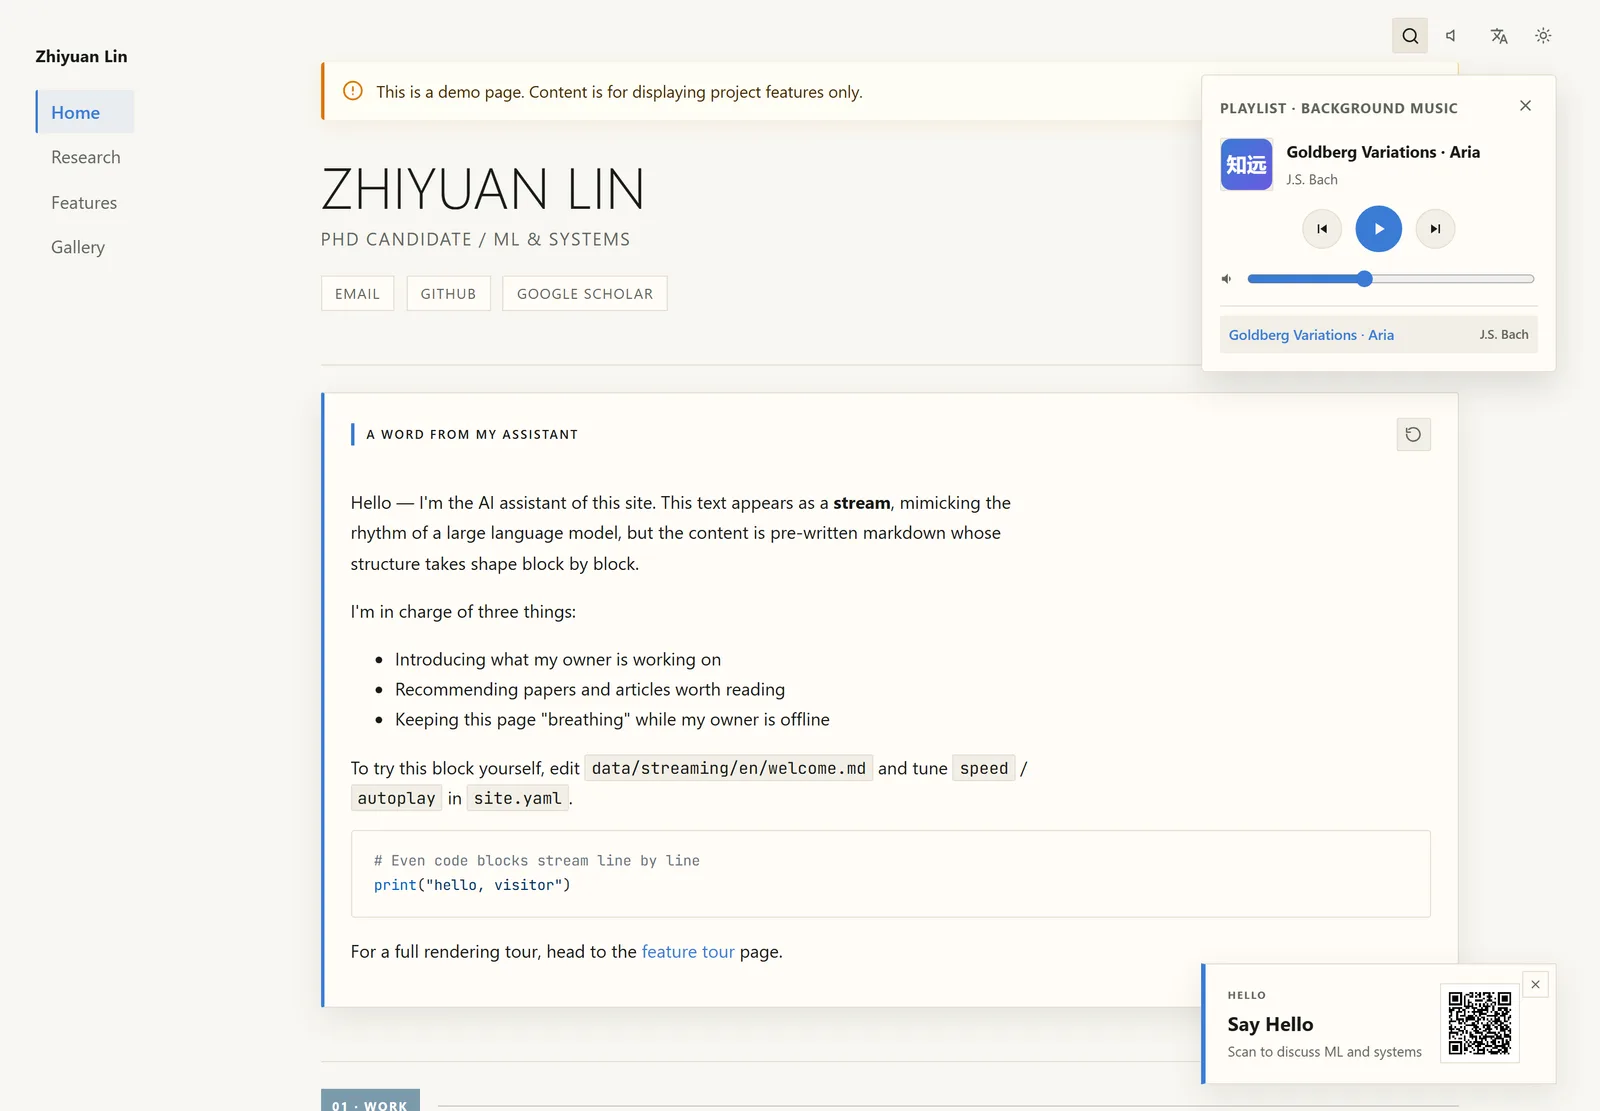
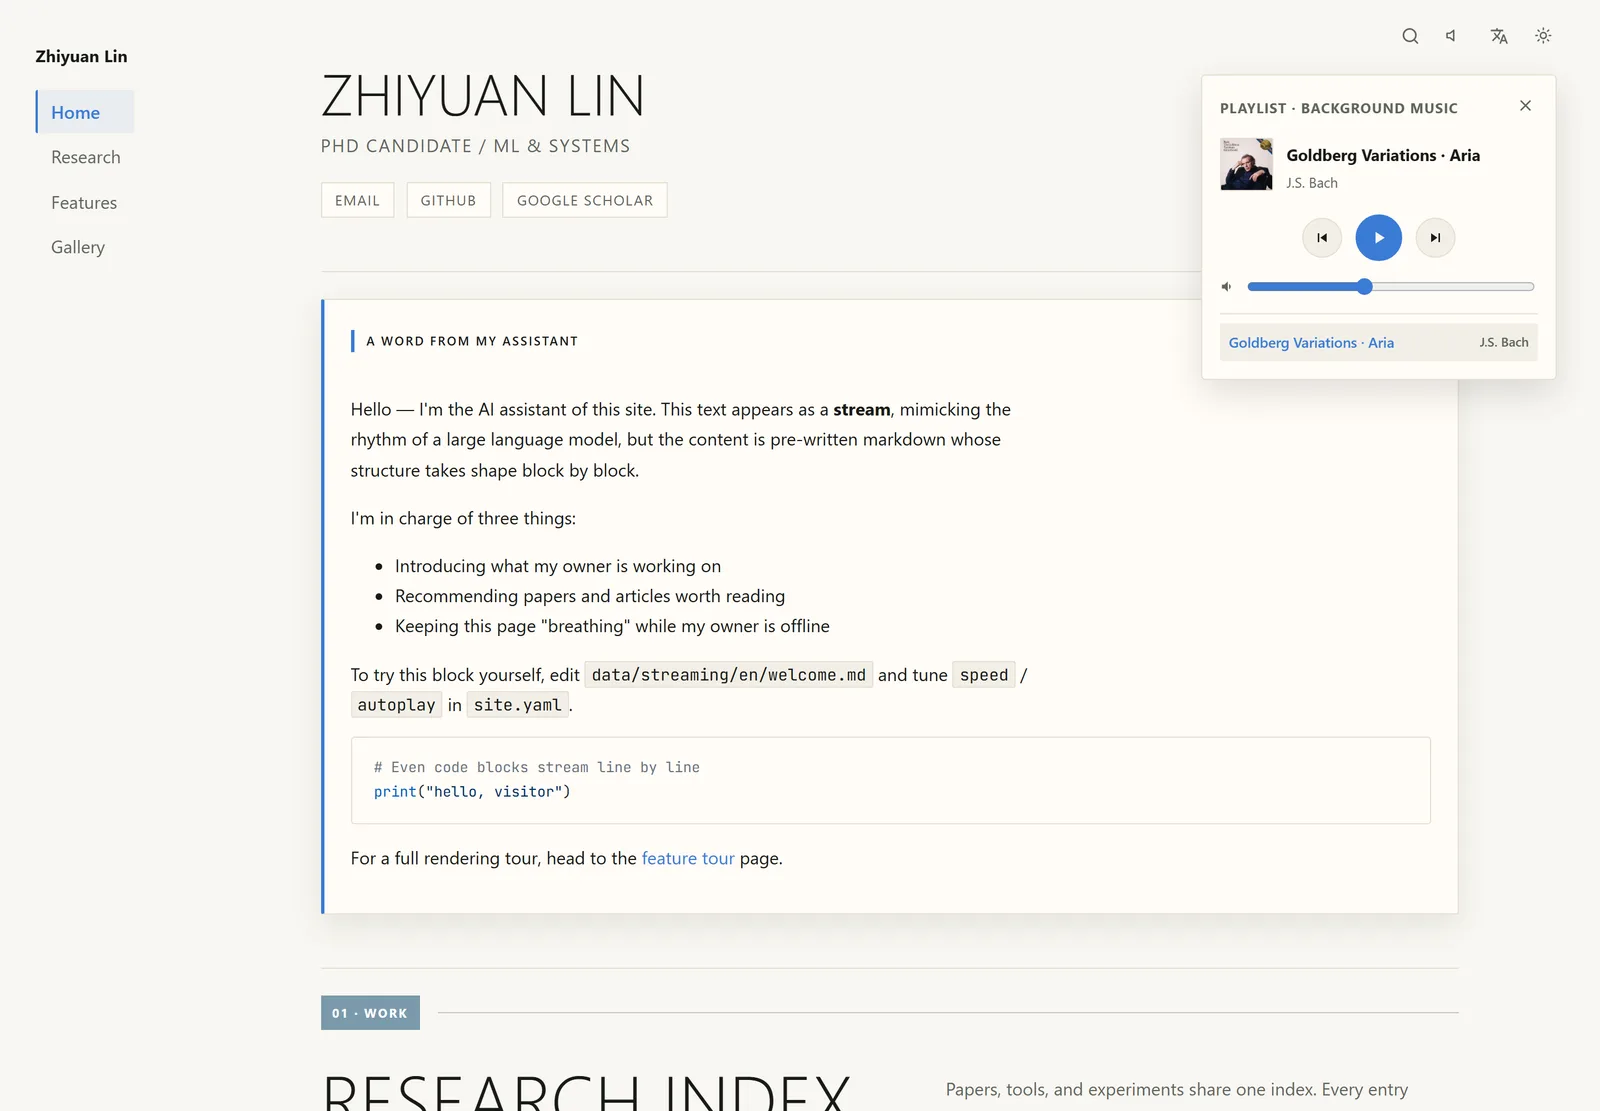
feat(bgm): 播放列表抽屉开关动画 + 按钮交互动画 + 专辑封面占位符改进
1. BGM 抽屉增加开关动画（scale+opacity transition，transform-origin top-right）2. 所有按钮（播放/暂停/上一首/下一首/关闭）增加 hover scale 与 active 缩放反馈 3. 未指定封面时显示音符 SVG 占位符而非站点 logo 4. 示例 BGM 封面改为 goldberg-aria-cover.jpg（已纳入图片优化管线，自动生成 WebP/AVIF 响应式变体）5. 更新 bgm-drawer 截图

diff --git a/src/scripts/bgm.ts b/src/scripts/bgm.ts
@@ -82,6 +82,37 @@ function updateMediaSession(track: Track, audio: HTMLAudioElement, onPrev?: () =
   }
 }
 
+function toggleDrawer(drawer: HTMLElement): void {
+  if (drawer.hidden || drawer.classList.contains('closing')) {
+    openDrawer(drawer);
+  } else {
+    closeDrawer(drawer);
+  }
+}
+
+function openDrawer(drawer: HTMLElement): void {
+  drawer.classList.remove('closing');
+  drawer.hidden = false;
+  // Re-trigger animation by reflow
+  void drawer.offsetWidth;
+  drawer.style.animation = '';
+}
+
+function closeDrawer(drawer: HTMLElement): void {
+  if (drawer.hidden || drawer.classList.contains('closing')) return;
+  drawer.classList.add('closing');
+  const done = () => {
+    drawer.hidden = true;
+    drawer.classList.remove('closing');
+    drawer.removeEventListener('animationend', done);
+  };
+  drawer.addEventListener('animationend', done);
+  // Fallback timeout in case animationend doesn't fire
+  setTimeout(() => {
+    if (!drawer.hidden) done();
+  }, 250);
+}
+
 export function initBgm(): void {
   const audio = document.querySelector<HTMLAudioElement>('audio.bgm-audio');
   const btn = document.querySelector<HTMLElement>('.bgm-toggle');
@@ -131,7 +162,13 @@ export function initBgm(): void {
 
     if (titleEl) titleEl.textContent = current.title;
     if (artistEl) artistEl.textContent = current.artist || '';
-    if (coverEl && current.cover) coverEl.src = current.cover;
+    if (coverEl) {
+      if (current.cover) {
+        coverEl.src = current.cover;
+      } else if (!coverEl.classList.contains('bgm-cover-placeholder')) {
+        coverEl.src = '';
+      }
+    }
     if (slider) slider.value = String(audio.volume);
     if (playIcon && pauseIcon) {
       playIcon.style.display = audio.paused ? '' : 'none';
@@ -208,7 +245,7 @@ export function initBgm(): void {
     btn.addEventListener('contextmenu', (e) => {
       if (drawer) {
         e.preventDefault();
-        drawer.hidden = !drawer.hidden;
+        toggleDrawer(drawer);
         syncDrawer();
       }
     });
@@ -219,7 +256,7 @@ export function initBgm(): void {
     drawer.dataset.drawerInit = '1';
 
     drawer.querySelector('.bgm-drawer-close')?.addEventListener('click', () => {
-      drawer.hidden = true;
+      closeDrawer(drawer);
     });
 
     drawer.querySelector('.bgm-play-btn')?.addEventListener('click', () => {

diff --git a/src/styles/global.css b/src/styles/global.css
@@ -3715,6 +3715,16 @@ html.js .reveal.revealed {
   padding: 0.2rem;
   font-size: 1.1rem;
   line-height: 1;
+  border-radius: var(--radius-sm);
+  transition: color 0.15s ease, background 0.15s ease, transform 0.15s ease;
+}
+.bgm-drawer-close:hover {
+  color: var(--text);
+  background: var(--bg-subtle);
+  transform: scale(1.1);
+}
+.bgm-drawer-close:active {
+  transform: scale(0.92);
 }
 .bgm-current-info {
   display: flex;
@@ -3729,6 +3739,12 @@ html.js .reveal.revealed {
   background: var(--bg-subtle);
   border: 1px solid var(--border);
   flex-shrink: 0;
+}
+.bgm-cover-placeholder {
+  display: flex;
+  align-items: center;
+  justify-content: center;
+  color: var(--text-muted);
 }
 .bgm-current-text {
   min-width: 0;
@@ -3768,10 +3784,15 @@ html.js .reveal.revealed {
   align-items: center;
   justify-content: center;
   cursor: pointer;
+  transition: transform 0.15s ease, color 0.15s ease, border-color 0.15s ease, background 0.15s ease;
 }
 .bgm-ctrl-btn:hover {
   color: var(--accent);
   border-color: var(--accent);
+  transform: scale(1.1);
+}
+.bgm-ctrl-btn:active {
+  transform: scale(0.92);
 }
 .bgm-ctrl-btn.play-btn {
   width: 42px;
@@ -3779,6 +3800,14 @@ html.js .reveal.revealed {
   background: var(--accent);
   color: var(--bg);
   border-color: var(--accent);
+  transition: transform 0.15s ease, box-shadow 0.15s ease;
+}
+.bgm-ctrl-btn.play-btn:hover {
+  transform: scale(1.1);
+  box-shadow: 0 4px 14px color-mix(in srgb, var(--accent) 40%, transparent);
+}
+.bgm-ctrl-btn.play-btn:active {
+  transform: scale(0.92);
 }
 .bgm-volume-bar {
   display: flex;
@@ -3789,6 +3818,7 @@ html.js .reveal.revealed {
   flex: 1;
   accent-color: var(--accent);
   cursor: pointer;
+  transition: opacity 0.15s ease;
 }
 .bgm-tracklist {
   list-style: none;
